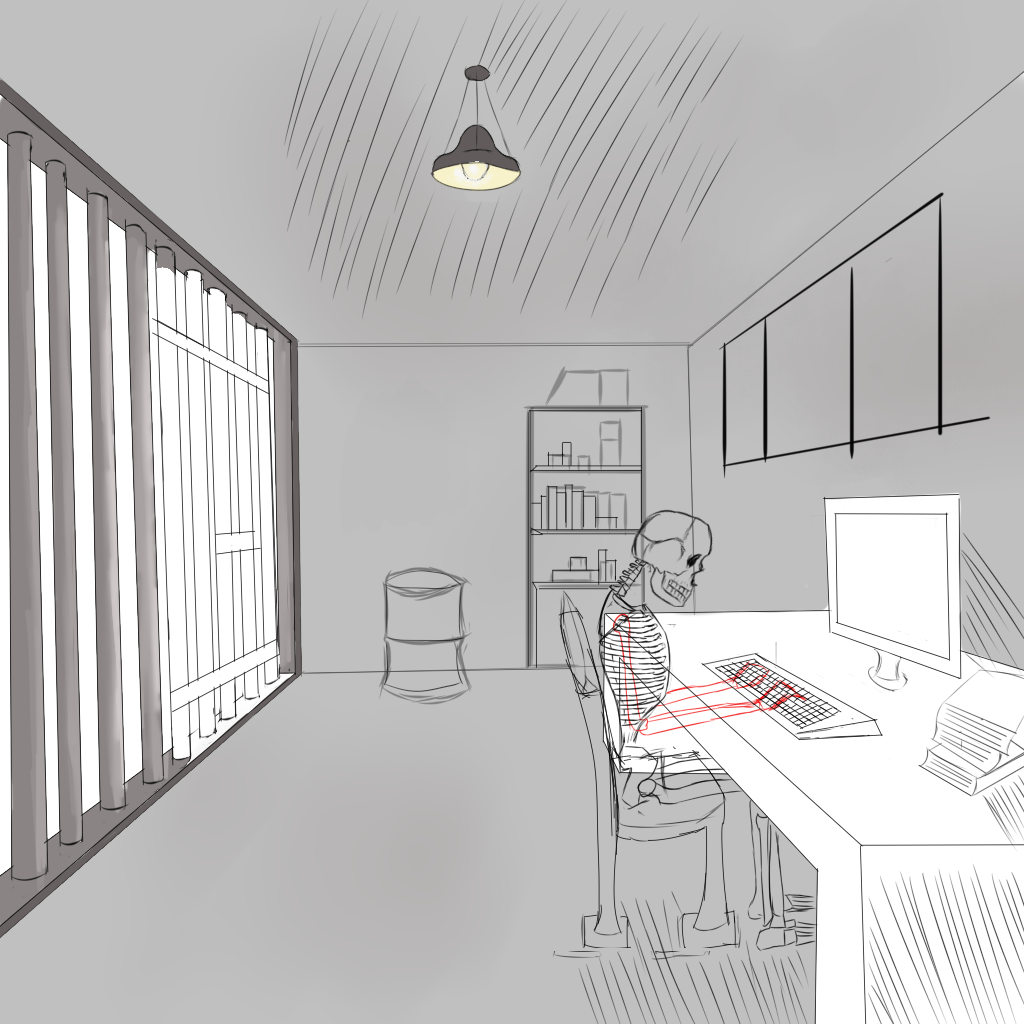
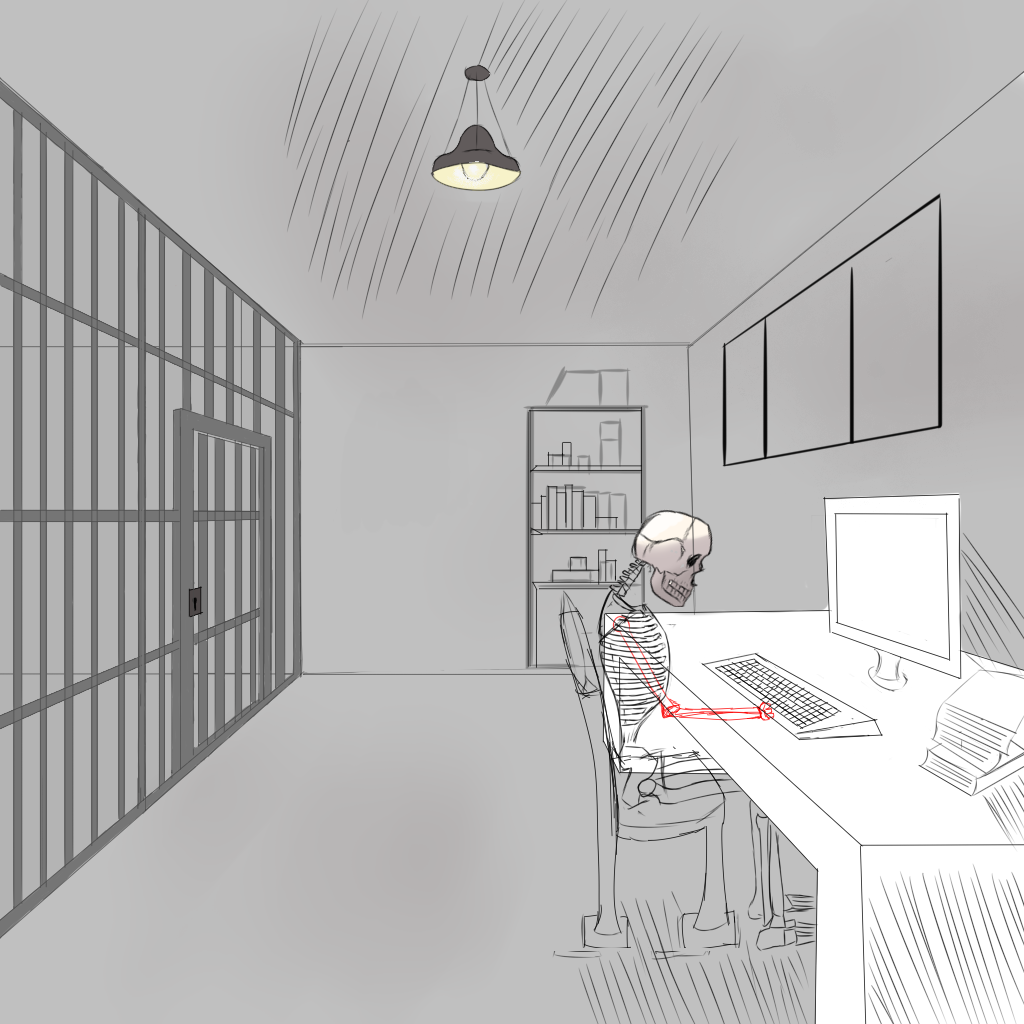
Jaildoor (#85)
* Adjusted images

Images are improved

* addedKey

* added something to door

* door almost works

diff --git a/src/components/game/index.js b/src/components/game/index.js
@@ -20,7 +20,7 @@ export default function Game(props) {
         .add("furniture", require("../../assets/objects/Drawer2.png"))
         .add("arrows", require("../../assets/objects/usertools.png"))
         .add("pc", require("../../assets/objects/pc2.png"))
-        .add("itemList", require("../../assets/objects/itemsGimp.png"));
+        .add("itemList", require("../../assets/objects/items.png"));
     }
     props.app.loader.load(doneLoading);
     dispatch({ type: "LOADED" });
@@ -29,7 +29,6 @@ export default function Game(props) {
   let corner = new PIXI.Container();
   let roomBack = new PIXI.Container();
   let frontDoor = new PIXI.Container(); 
-
 
   const roomParts = [
     PIXI.Sprite.from(require("../../assets/rooms/Corner.png")),
@@ -64,14 +63,31 @@ export default function Game(props) {
   function displayFirstRiddle() {
     dispatch({ type: "SELECT_PC" });
   }
-  function displaySecondRiddle() {
+  function displaySecondRiddle() { 
     dispatch({ type: "SELECT_DRAWER" });
   }
-  function takeItem(){
+  function takeIDCard(){
   roomBack.children[1].visible = false;
-    dispatch({type: "TAKE_ITEM"});
+    dispatch({type: "TAKE_IDCARD1"}); 
+  }
+  function takeKey(){  
+  frontDoor.children[1].visible = false;
+    dispatch({type: "TAKE_KEY"});
   }
 
+  function openDoor()
+  {
+    console.log(assetReducer.key)
+    if(assetReducer.key.collected === true)
+    {
+      dispatch({type: "OPEN_DOOR"});
+      console.log("open_Door");
+    }
+    else{
+      dispatch({type: "NO_KEY"});
+      console.log("No Key");
+    }
+  }
   let drawerSheet = {};
   let arrowSheet = {};
   let pcSheet = {};
@@ -88,7 +104,7 @@ export default function Game(props) {
     let ui = createUserInterface(arrowSheet, props.app);
     let drawer = createDrawer(drawerSheet, props.app);
     let pc = createPC(pcSheet, props.app);
-    let idCard = setItems(items, props.app);
+    let objects = setItems(items, props.app);
 
     let left = ui[0];
     let right = ui[1];
@@ -98,13 +114,17 @@ export default function Game(props) {
     right.on("pointerdown", turnRight);
     pc.on("pointerdown", displayFirstRiddle);
     drawer.on("pointerdown", displaySecondRiddle);
-    idCard.on("pointerdown", takeItem);
+    //Objects
+    objects.idCard1.on("pointerdown", takeIDCard);
+    objects.key.on("pointerdown", takeKey);
+    objects.door.on("pointerdown", openDoor);
 
     // Setting Visibility of Screens
     if(!props.app.stage.children.length)
     { 
     corner.addChild(drawer, pc)
-    roomBack.addChild(idCard);
+    roomBack.addChild(objects.idCard1,objects.door);
+    frontDoor.addChild(objects.key);  
 
       corner.visible = true;
       roomBack.visible = false;
@@ -146,6 +166,9 @@ function createItemSheet(){
 
   items["idCard"] = [
     new PIXI.Texture(itemSheet, new PIXI.Rectangle(0, 0, 130, 100))
+  ]
+  items["key"] = [
+    new PIXI.Texture(itemSheet, new PIXI.Rectangle(130, 0 , 130, 100))
   ]
 }
 

diff --git a/src/store/appreducer.js b/src/store/appreducer.js
@@ -2,33 +2,35 @@ import data from "./exitGame.json";
 import produce from "immer";
 
 let inventory = {
-  idCard: false
+  idCard: {collected: false, pictureID: "idCard"},
+  key: {collected: false, pictureID: "key"}
 };  
 
 let wholeData = Object.assign(data,inventory);
+
+console.log(wholeData);
 
 const appReducer = produce((draft = wholeData, action) => {
   switch (action.type) {
     case "SELECT":
       return draft;
-
     case "SWITCH_LEFT": 
       draft.partNumber =
         draft.numberOfParts === draft.partNumber + 1 ? 0 : draft.partNumber + 1;
       return draft;
-
     case "SWITCH_RIGHT": 
       console.log(draft.numberOfParts);
       draft.partNumber = draft.partNumber - 1 === -1 ? 2 : draft.partNumber - 1;
       return draft;
- 
-    case "TAKE_ITEM":
-      draft.inventory.idCard = true;
+    case "TAKE_IDCARD1":
+      draft.idCard.collected = true;
       return draft;
-      
+    case "TAKE_KEY":
+      draft.key.collected = true; 
+    return draft;
     case "LOADED":
       draft.loaded = true;
-      break;
+      break;     
     default:
       return draft;
   }

diff --git a/src/helper/createObjects.js b/src/helper/createObjects.js
@@ -25,20 +25,38 @@ export function createUserInterface(arrowSheet, app) {
   return [left, right];
 }
 export function setItems(items, app) {
+
   const idCard1 = new PIXI.Sprite(items.idCard[0]);
+  const key = new PIXI.Sprite(items.key[0]);
+  const door = new PIXI.Graphics();
 
   idCard1.interactive = true;
   idCard1.buttonMode = true;
-
-  // idCard1.on("pointerclick", leftOver);
-
   idCard1.x = 570;
   idCard1.y = 350;
   idCard1.height = 30;
   idCard1.width = 40;
 
-  return idCard1;
-}
+  key.interactive = true;
+  key.buttonMode = true;
+  key.x = 670;
+  key.y = 450;
+  key.height = 30;
+  key.width = 40;
+
+  door.interactive = true;
+  door.buttonMode = true;
+  door.beginFill(0xffffff,0.001);
+  door.drawRect(100, 250, 100, 200);
+  door.endFill();
+  door.lineStyle(0);
+
+    return {
+      idCard1,
+      key,
+      door
+    };
+  }
 
 export function createDrawer(furnitureSheet) {
   const drawer = new PIXI.AnimatedSprite(furnitureSheet.closed);

diff --git a/src/components/objectsCollection/index.js b/src/components/objectsCollection/index.js
@@ -11,13 +11,15 @@ export default function ObjectCollection() {
     <div className="objects">
       <p>objects collection</p>
      {/* {assetReducer.inventory.idCard===true} &&  <h1>Hello </h1> */}
-    {Object.values(assetReducer.inventory).map((element) => {
-      if(element===true){
-        return(<p id="image"></p>
+    {Object.values(assetReducer).map((element) => {
+      if(element.collected===true){
+        console.log("#picture" + element.pictureID);
+        return(<div className="object" id={element.pictureID}>  
+         </div>
         )
       }
       return ("")
-    })}
+    })} 
     </div>
   );
 }

diff --git a/src/store/answersReducer.js b/src/store/answersReducer.js
@@ -50,7 +50,25 @@ function answersReducer(state = initialState, action) {
           img: null,
         },
       };
-
+    case "OPEN_DOOR":
+      return {
+        ...state,
+        currentRiddleDescription: {
+          id: 3,
+          text: data.riddleDescription.third.text,
+          img: null,
+        },
+      };
+      case "NO_KEY":
+        return {
+          ...state,
+          currentRiddleDescription: {
+            id: 4,
+            text: data.riddleDescription.fourth.text,
+            img: null,
+          },
+        };
+     
     default:
       return state;
   }

diff --git a/src/components/objectsCollection/index.scss b/src/components/objectsCollection/index.scss
@@ -12,10 +12,16 @@
   // top: 700px;
 }
 
-#image{
-  height: 128px;
-  width: 128px;
-background: 
-  url('../../assets/objects/itemsGimp.png') 0px 0px;
-  
+.object{
+  height: 80px;
+  width: 108px;
 }
+
+#idCard{
+  background: 
+  url('../../assets/objects/items.png') -10px -30px;
+}
+#key{
+  background: 
+  url('../../assets/objects/items.png') -130px -30px;
+} 
